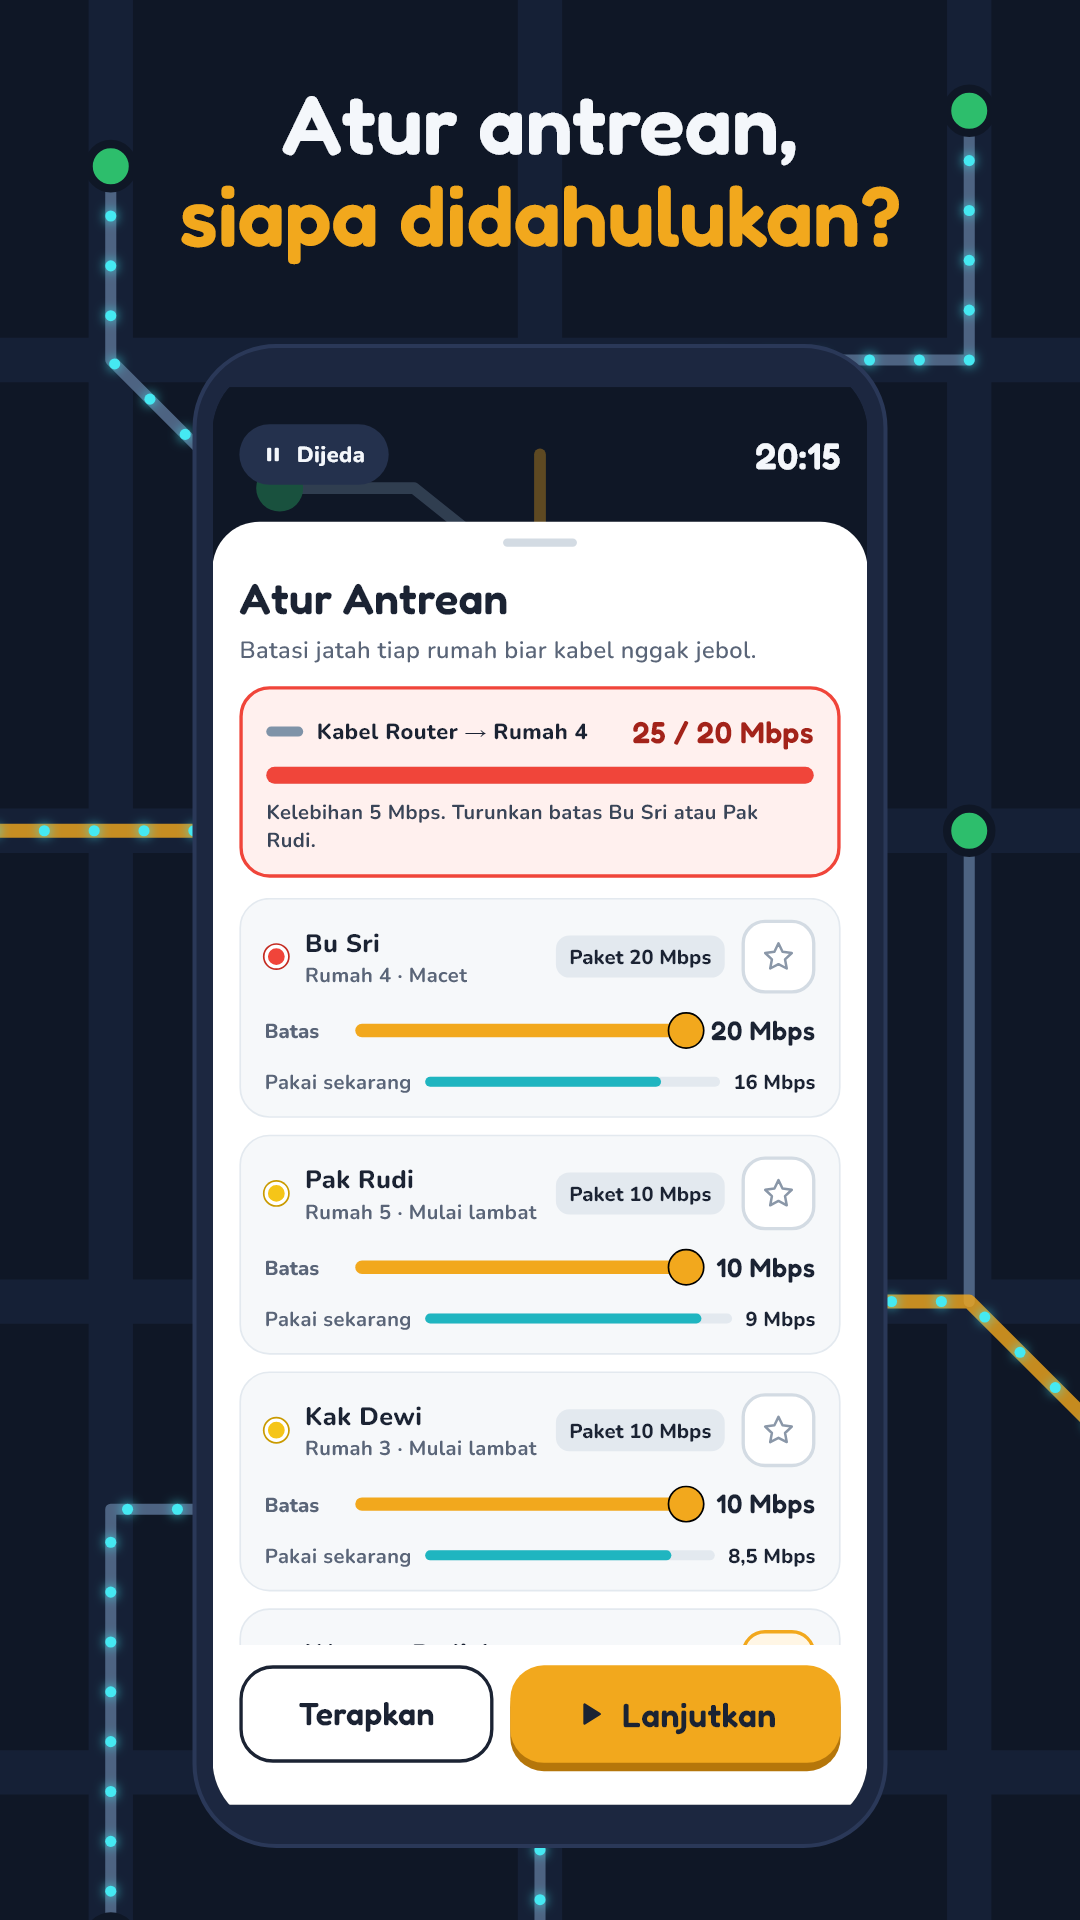
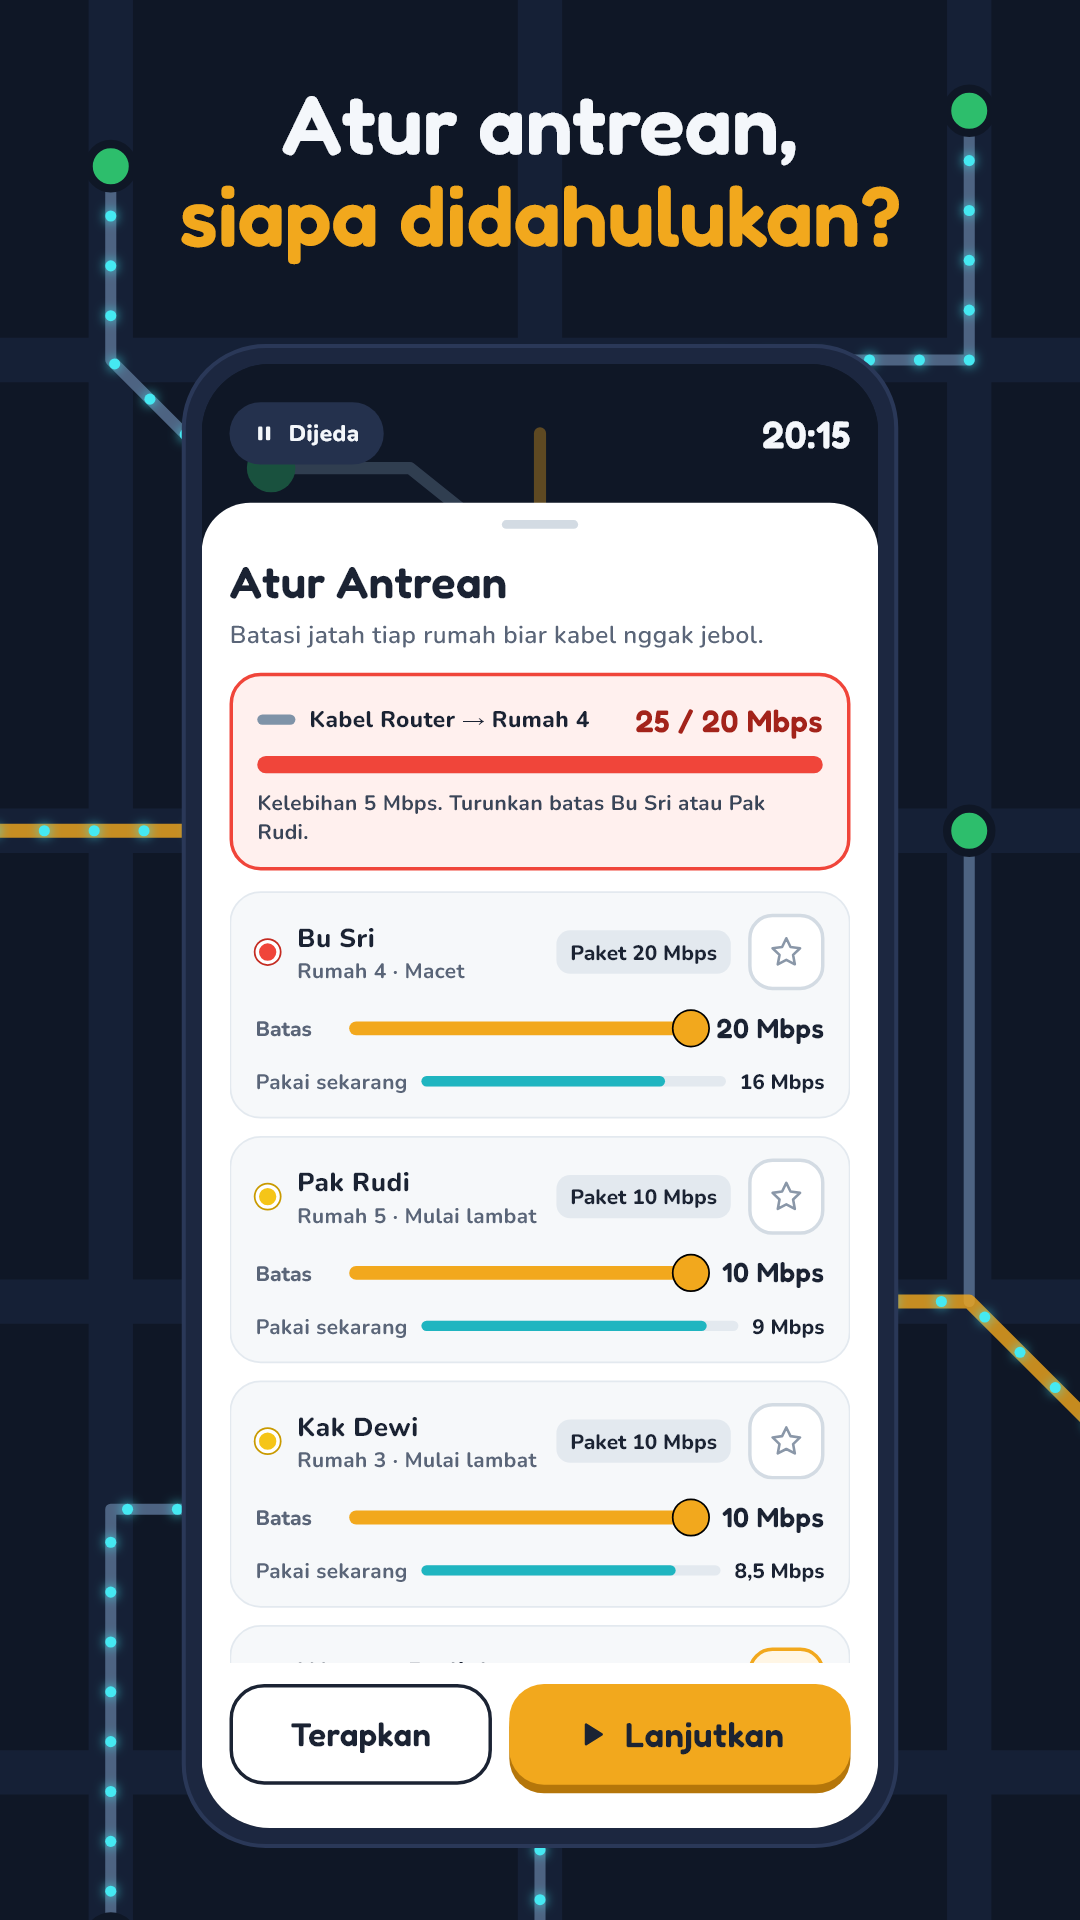
fix(store): review — arrow via Nunito fallback without touching the theme, no letterbox, tense boss shot, aligned graphic title

Changed region(s): [[0.1528, 0.1875, 0.8556, 0.9688]]

diff --git a/test/tool/store_test.dart b/test/tool/store_test.dart
@@ -69,10 +69,22 @@ class _Shot {
   final Future<TestGesture?> Function(WidgetTester)? before;
 }
 
-/// Hari level bos dengan rancangan acuan, pukul 21:00 (puncak nobar).
+/// Hari level bos pukul 21:00 (puncak nobar) dengan rancangan yang aman di
+/// jam biasa tapi rantai Rumah 7 → Rumah 6 penuh saat nobar (jebakan di
+/// `level_balance_test.dart`), supaya tegangnya terlihat.
 GameSession _bossNight() {
-  final level = Levels.byNumber(12)!;
-  final day = design(level, referencePlans[level.number]!).planDay();
+  const plan = Plan([
+    Pull.fiber('router', 'pos'),
+    Pull('router', 'r2'),
+    Pull('router', 'r1'),
+    Pull('router', 'r3'),
+    Pull('router', 'r4'),
+    Pull('router', 'r5'),
+    Pull('router', 'r7'),
+    Pull('router', 'r8'),
+    Pull('r7', 'r6'),
+  ]);
+  final day = design(Levels.byNumber(12)!, plan).planDay();
   while (day.day!.minute < 21 * 60) {
     day.dismissComplaint();
     day.advanceDay(1);
@@ -151,16 +163,23 @@ class _Night extends StatelessWidget {
 
 /// Judul dua baris ala Beranda: [head] putih, [accent] oranye.
 class _Title extends StatelessWidget {
-  const _Title(this.head, this.accent, {required this.style});
+  const _Title(
+    this.head,
+    this.accent, {
+    required this.style,
+    this.align = CrossAxisAlignment.center,
+  });
 
   final String head;
   final String accent;
   final TextStyle style;
+  final CrossAxisAlignment align;
 
   @override
   Widget build(BuildContext context) {
     return Column(
       mainAxisSize: MainAxisSize.min,
+      crossAxisAlignment: align,
       children: [
         Text(head, style: style.copyWith(color: AppColors.inkOnDark)),
         Text(accent, style: style.copyWith(color: AppColors.primary)),
@@ -184,8 +203,7 @@ class _Phone extends StatelessWidget {
       viewPadding: EdgeInsets.zero,
       viewInsets: EdgeInsets.zero,
     );
-    return AspectRatio(
-      aspectRatio: screen.aspectRatio,
+    return IntrinsicWidth(
       child: Container(
         padding: const EdgeInsets.all(_phoneBezel),
         decoration: BoxDecoration(
@@ -193,12 +211,16 @@ class _Phone extends StatelessWidget {
           borderRadius: BorderRadius.circular(_phoneRadius + _phoneBezel),
           border: Border.all(color: AppColors.surfaceNightRaisedLine, width: 2),
         ),
-        child: ClipRRect(
-          borderRadius: BorderRadius.circular(_phoneRadius),
-          child: FittedBox(
-            child: SizedBox.fromSize(
-              size: screen,
-              child: MediaQuery(data: media, child: app),
+        // Rasio di dalam bezel, supaya layar tidak ber-letterbox.
+        child: AspectRatio(
+          aspectRatio: screen.aspectRatio,
+          child: ClipRRect(
+            borderRadius: BorderRadius.circular(_phoneRadius),
+            child: FittedBox(
+              child: SizedBox.fromSize(
+                size: screen,
+                child: MediaQuery(data: media, child: app),
+              ),
             ),
           ),
         ),
@@ -233,8 +255,9 @@ void _canvas(WidgetTester tester, Size size) {
 
 /// Font bundel (Nunito/Fredoka) tidak punya "→" (Antrean: "Kabel Router →
 /// Rumah 4"). Di ponsel glyph itu jatuh ke font sistem; test tidak punya
-/// font sistem, jadi muat font sistem mesin ini sebagai
-/// [AppTypography.systemFallback].
+/// font sistem. google_fonts memberi tiap gaya Nunito cadangan bernama
+/// keluarga dasar ("Nunito") yang tidak pernah dimuat, jadi font sistem mesin
+/// ini dimuat dengan nama itu.
 const _systemFonts = [
   ['C:/Windows/Fonts/arial.ttf', 'C:/Windows/Fonts/arialbd.ttf'],
   [
@@ -255,7 +278,7 @@ Future<void> _loadSystemFallback() async {
       '_systemFonts.',
     ),
   );
-  final loader = FontLoader(AppTypography.systemFallback);
+  final loader = FontLoader(GoogleFonts.nunito().fontFamilyFallback!.single);
   for (final f in files) {
     loader.addFont(File(f).readAsBytes().then(ByteData.sublistView));
   }
@@ -308,11 +331,14 @@ void main() {
           ),
         ),
       );
-      // Hari yang berjalan (bos) tidak pernah "settle"; cukup satu bingkai.
+      // Hari yang berjalan (bos) tidak pernah "settle"; beri beberapa
+      // bingkai tanpa memajukan jam.
       if (shot.session == null) {
         await tester.pumpAndSettle();
       } else {
-        await tester.pump();
+        for (var i = 0; i < 3; i++) {
+          await tester.pump();
+        }
       }
       final gesture = await shot.before?.call(tester);
       await _save(tester, 'screenshot-${shot.file}', _shotScale);
@@ -347,7 +373,12 @@ void main() {
                   mainAxisSize: MainAxisSize.min,
                   crossAxisAlignment: CrossAxisAlignment.start,
                   children: [
-                    _Title('Jaringan', 'Sibuk', style: AppTypography.display),
+                    _Title(
+                      'Jaringan',
+                      'Sibuk',
+                      style: AppTypography.display,
+                      align: CrossAxisAlignment.start,
+                    ),
                     const SizedBox(height: AppSpacing.s8),
                     SizedBox(
                       width: 260,
@@ -380,8 +411,9 @@ void main() {
         background: AppColors.groundNight,
       );
       final bytes = await image.toByteData(format: ui.ImageByteFormat.png);
-      await File('store/icon-512.png')
-          .writeAsBytes(bytes!.buffer.asUint8List());
+      final file = File('store/icon-512.png');
+      await file.parent.create(recursive: true);
+      await file.writeAsBytes(bytes!.buffer.asUint8List());
     });
   }, skip: !_enabled);
 }
